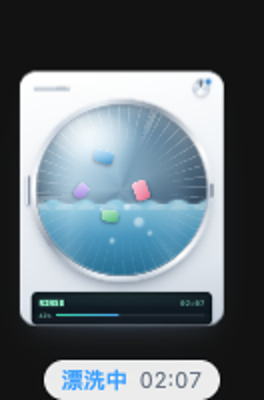
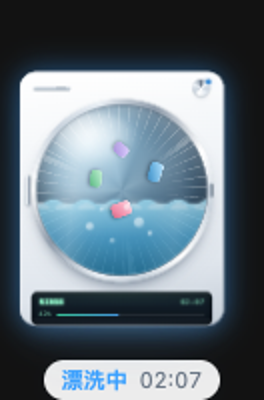
docs: 重写市场文案与图标，截图脚本收进仓库
用户说「优化一下发布到市场的文案和配图，让它更符合当前的状态和更吸引人」。
先查清了市场的真实能力，避免做无用功。

## 市场能放什么（查 app.asar 得到，不是猜的）
dsh-plugin-market-index 的 schema 只认 name/title/description/icon/author/
homepage/repository/metadata/versions——**没有截图字段**。渲染端列表页和
详情页共用同一个 .icon 类，width:48px;height:48px，全文件只有这一个尺寸。
所以「配图」在市场里只有一张 48×48 的图标，剩下的入口是 README。

## 文案：从「解释状态机」改成「回答值不值得装」
旧描述讲的是「洗涤=出字、漂洗=工具在跑」——那是详情页该展开的技术细节，
摆在列表里等于把差异点（悬浮窗、多会话、卡住检测、完成提醒）全挤没了。
用户扫列表时的判断是「这东西能不能解决我的问题」。
英文描述同步改写，不只改中文。

## keywords：22 个，中英混填
搜索用 MiniSearch，boost 是 name/title 3、keywords 2——一个词都不填，
等于搜「悬浮窗」「状态」「通知」都找不到这个插件，白丢的曝光。
用户可能用任何一种语言搜，所以两边的词都放。

## 图标：按实际显示的 48px 重画
旧图在 48px 下会坏：绿灯 r=2.4（视口 64）缩完只剩 1.8px，糊成一个脏点；
描边 2.4~2.6 缩完约 1.9px，变成粗黑框；旋钮刻度和水面波纹整片糊死。
重画后：主描边降到 2.1、砍掉旋钮刻度、气泡只留两颗、绿灯挪到圆角外侧
并加白描边与机身隔开。48/96/192 三档都验过。

## README 开头重排
功能和细节本来就写得很全，问题在顺序——开头只有一张状态表，最有说服力的
东西全在下面。现在第一屏是：一句主张 → 四张截图 → 「为什么值得装」的
痛点对照表（五行，每行一个真实场景），状态表退到后面。

## 截图脚本收进仓库
四张图里 float-washing.png 一直是**空图**（只有「未连接 --:--」），
因为生成它的脚本在 /tmp 里，且在 loadFile 之前注入假 WebSocket——
loadFile 会清掉注入，第一帧就拍到未连接状态。
现在 electron/shot.cjs + electron/preload-shot.cjs 进仓库，
时序改为 loadFile 之后再注入、等页面重连循环捡起来，四张全部重拍。

diff --git a/README.md b/README.md
@@ -1,15 +1,34 @@
 # dsh-washer · 滚筒洗衣机
 
-用一台**滚筒洗衣机**的运转状态，实时显示 DeepSeek Harness 里 Agent 在干什么。
+**不用盯着屏幕，也知道 Agent 跑到哪了。**
 
-不是装饰：洗衣机的每一个动作都对应一个**可验证**的宿主信号。洗涤 = 模型在出字，漂洗 = 工具在跑，脱水 = 收尾，暂停 = 在等你批准。
+一台永远置顶的桌面悬浮窗，把 Agent 的运转状态显示成滚筒洗衣机的动作。
+洗完、卡住、等你确认——三个你真需要抬头的时刻，它会主动叫你。
+其余时间它安静地转，你去做别的事。
 
 <p>
-<img src="docs/float-washing.png" width="120" alt="洗涤中">
-<img src="docs/float-rinsing.png" width="120" alt="漂洗中">
-<img src="docs/float-waiting.png" width="120" alt="等你确认">
-<img src="docs/float-done.png" width="120" alt="洗完了">
+<img src="docs/float-washing.png" width="112" alt="洗涤中：模型在出字">
+<img src="docs/float-rinsing.png" width="112" alt="漂洗中：工具在跑">
+<img src="docs/float-waiting.png" width="112" alt="等你确认：在等你批准或回答">
+<img src="docs/float-done.png" width="112" alt="洗完了：本轮结束">
 </p>
+
+<sub>洗涤中 · 漂洗中 · 等你确认 · 洗完了</sub>
+
+## 为什么值得装
+
+跑长任务时人不能干等着，切走又怕错过。窗口里那个小停靠条，切到浏览器另一页就看不见了。
+
+| 痛点 | 它怎么解决 |
+|---|---|
+| 想知道跑完没，得一直切回来 | **悬浮窗永远置顶**，在哪个 App 前面都在 |
+| 跑完了没注意，白等十分钟 | 完成时 `Glass` 一声 + 系统通知，人不在也能叫回来 |
+| 卡住了看着却在转，不知道死没死 | 45 秒没有可见变化就报「卡住了」，不再谎报已运行时长 |
+| 同时开三个会话，画面乱跳 | 一排小圆点显示全部，**点一颗钉住**就不跳了 |
+| 想知道大概还要多久 | 按这个会话自己最近 8 轮的中位数估 `还要 1:20`，不借别的会话 |
+
+不是装饰：洗衣机的每一个动作都对应一个**可验证**的宿主信号。
+洗涤 = 模型在出字，漂洗 = 工具在跑，脱水 = 收尾，暂停 = 在等你批准。
 
 ```
 待机     ▁▁▁▁▁▁▁▁ 筒空、灯暗
